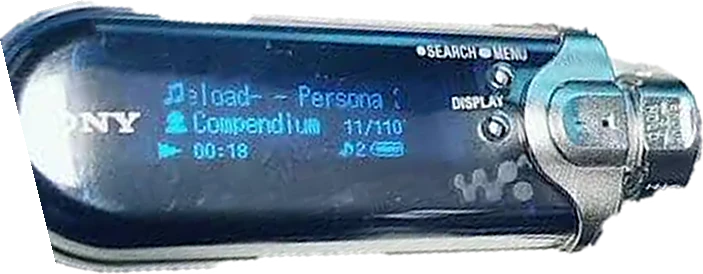
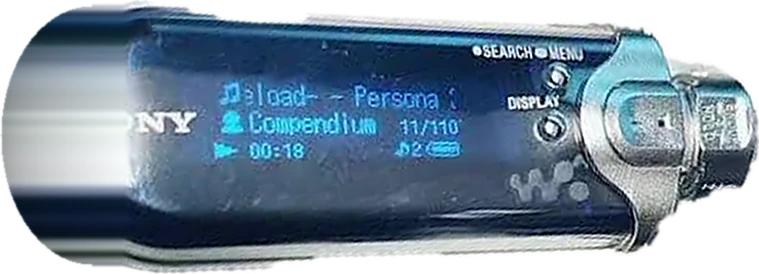
Use the illustrated model with underwater motion; fix the Walkman
Replace the photo-based figure with Noureldin's illustrated model, cut out
from its background. A WebGL shader drifts the hair and shirt as if
underwater (driven by a motion map) while the face stays still, on top of a
slow floating bob. Poses are retuned for the bust framing.

Rebuild the Walkman's cropped left end into a rounded cap, and add a short
silence between tracks when switching.

Claude-Session: https://claude.ai/code/session_01PdweqsM6ZcjuFd6RmoyZBu

diff --git a/src/app/HeroModel.tsx b/src/app/HeroModel.tsx
@@ -1,0 +1,171 @@
+"use client";
+
+import { useEffect, useRef, useState } from "react";
+
+// Draws the illustrated model with a small WebGL shader so the hair and shirt drift
+// as if underwater while the face stays still. A motion map tells the shader how much
+// each pixel moves: red = hair (strong, buoyant), green = shirt (gentle ripple).
+// Falls back to a plain image without WebGL or with reduced motion.
+
+const VERT = `
+attribute vec2 a;
+varying vec2 vUv;
+void main() {
+  vUv = vec2(a.x * 0.5 + 0.5, 0.5 - a.y * 0.5);
+  gl_Position = vec4(a, 0.0, 1.0);
+}
+`;
+
+const FRAG = `
+precision mediump float;
+uniform sampler2D uImg;
+uniform sampler2D uMotion;
+uniform float uTime;
+varying vec2 vUv;
+
+void main() {
+  vec2 uv = vUv;
+  vec4 m = texture2D(uMotion, uv);
+  float t = uTime;
+
+  // Two slow layered waves travelling through the image; smooth and cheap.
+  vec2 wave = vec2(
+    sin(uv.y * 17.0 + t * 1.25) * 0.6 + sin(uv.y * 6.5 + uv.x * 4.0 - t * 0.8) * 0.4,
+    cos(uv.x * 15.0 + t * 1.05) * 0.6 + sin(uv.x * 5.5 - uv.y * 3.0 + t * 0.7) * 0.4
+  );
+
+  vec2 off = wave * (m.r * 0.0075 + m.g * 0.0032);
+  // Hair lifts a little, as if buoyant, and settles back.
+  off.y -= m.r * 0.006 * (0.55 + 0.45 * sin(t * 0.85));
+  // The shirt hem sways sideways.
+  off.x += m.g * 0.004 * sin(t * 0.6 + uv.y * 3.0);
+
+  gl_FragColor = texture2D(uImg, uv + off);
+}
+`;
+
+export default function HeroModel() {
+  const canvasRef = useRef<HTMLCanvasElement | null>(null);
+  const [fallback, setFallback] = useState(false);
+
+  useEffect(() => {
+    const canvas = canvasRef.current;
+    if (!canvas) return;
+    if (window.matchMedia("(prefers-reduced-motion: reduce)").matches) {
+      setFallback(true);
+      return;
+    }
+    const gl = canvas.getContext("webgl", { premultipliedAlpha: true, alpha: true, antialias: false });
+    if (!gl) {
+      setFallback(true);
+      return;
+    }
+
+    const compile = (type: number, src: string) => {
+      const s = gl.createShader(type)!;
+      gl.shaderSource(s, src);
+      gl.compileShader(s);
+      return gl.getShaderParameter(s, gl.COMPILE_STATUS) ? s : null;
+    };
+    const vs = compile(gl.VERTEX_SHADER, VERT);
+    const fs = compile(gl.FRAGMENT_SHADER, FRAG);
+    if (!vs || !fs) {
+      setFallback(true);
+      return;
+    }
+    const prog = gl.createProgram()!;
+    gl.attachShader(prog, vs);
+    gl.attachShader(prog, fs);
+    gl.linkProgram(prog);
+    if (!gl.getProgramParameter(prog, gl.LINK_STATUS)) {
+      setFallback(true);
+      return;
+    }
+    gl.useProgram(prog);
+
+    const buf = gl.createBuffer();
+    gl.bindBuffer(gl.ARRAY_BUFFER, buf);
+    gl.bufferData(gl.ARRAY_BUFFER, new Float32Array([-1, -1, 3, -1, -1, 3]), gl.STATIC_DRAW);
+    const loc = gl.getAttribLocation(prog, "a");
+    gl.enableVertexAttribArray(loc);
+    gl.vertexAttribPointer(loc, 2, gl.FLOAT, false, 0, 0);
+
+    const uTime = gl.getUniformLocation(prog, "uTime");
+    gl.uniform1i(gl.getUniformLocation(prog, "uImg"), 0);
+    gl.uniform1i(gl.getUniformLocation(prog, "uMotion"), 1);
+
+    const texture = (unit: number, img: HTMLImageElement, premultiply: boolean) => {
+      const tex = gl.createTexture();
+      gl.activeTexture(gl.TEXTURE0 + unit);
+      gl.bindTexture(gl.TEXTURE_2D, tex);
+      gl.pixelStorei(gl.UNPACK_PREMULTIPLY_ALPHA_WEBGL, premultiply);
+      gl.texImage2D(gl.TEXTURE_2D, 0, gl.RGBA, gl.RGBA, gl.UNSIGNED_BYTE, img);
+      // Non-power-of-two textures: clamp and no mipmaps.
+      gl.texParameteri(gl.TEXTURE_2D, gl.TEXTURE_WRAP_S, gl.CLAMP_TO_EDGE);
+      gl.texParameteri(gl.TEXTURE_2D, gl.TEXTURE_WRAP_T, gl.CLAMP_TO_EDGE);
+      gl.texParameteri(gl.TEXTURE_2D, gl.TEXTURE_MIN_FILTER, gl.LINEAR);
+      gl.texParameteri(gl.TEXTURE_2D, gl.TEXTURE_MAG_FILTER, gl.LINEAR);
+    };
+
+    const load = (src: string) =>
+      new Promise<HTMLImageElement>((resolve, reject) => {
+        const img = new Image();
+        img.decoding = "async";
+        img.onload = () => resolve(img);
+        img.onerror = () => reject(new Error(`Could not load ${src}`));
+        img.src = src;
+      });
+
+    // Phones get the lighter texture; larger screens get the sharper one for close-ups.
+    const small = window.innerWidth < 900;
+    let raf = 0;
+    let cancelled = false;
+    const start = performance.now();
+
+    Promise.all([load(small ? "/images/nour-model-sm.webp" : "/images/nour-model.webp"), load("/images/nour-motion.png")])
+      .then(([img, motion]) => {
+        if (cancelled) return;
+        canvas.width = img.naturalWidth;
+        canvas.height = img.naturalHeight;
+        gl.viewport(0, 0, canvas.width, canvas.height);
+        texture(0, img, true);
+        texture(1, motion, false);
+        gl.clearColor(0, 0, 0, 0);
+        canvas.dataset.ready = "true";
+        const frame = (now: number) => {
+          gl.clear(gl.COLOR_BUFFER_BIT);
+          gl.uniform1f(uTime, (now - start) / 1000);
+          gl.drawArrays(gl.TRIANGLES, 0, 3);
+          raf = requestAnimationFrame(frame);
+        };
+        raf = requestAnimationFrame(frame);
+      })
+      .catch(() => setFallback(true));
+
+    const onVis = () => {
+      cancelAnimationFrame(raf);
+      if (!document.hidden && canvas.dataset.ready) {
+        const frame = (now: number) => {
+          gl.clear(gl.COLOR_BUFFER_BIT);
+          gl.uniform1f(uTime, (now - start) / 1000);
+          gl.drawArrays(gl.TRIANGLES, 0, 3);
+          raf = requestAnimationFrame(frame);
+        };
+        raf = requestAnimationFrame(frame);
+      }
+    };
+    document.addEventListener("visibilitychange", onVis);
+
+    return () => {
+      cancelled = true;
+      cancelAnimationFrame(raf);
+      document.removeEventListener("visibilitychange", onVis);
+    };
+  }, []);
+
+  if (fallback) {
+    // eslint-disable-next-line @next/next/no-img-element
+    return <img className="hero-art" src="/images/nour-model.webp" alt="" width={1490} height={1404} />;
+  }
+  return <canvas ref={canvasRef} className="hero-art" width={1490} height={1404} />;
+}

diff --git a/src/app/globals.css b/src/app/globals.css
@@ -582,9 +582,9 @@ body {
 /* Live display laid over the photo's screen */
 .wm-screen {
   position: absolute;
-  left: 21.2%;
+  left: 27%;
   top: 25%;
-  width: 36.6%;
+  width: 33.9%;
   height: 40.5%;
   display: flex;
   flex-direction: column;
@@ -685,7 +685,7 @@ body {
 /* Controls under the player */
 .wm-controls {
   position: absolute;
-  left: 24%;
+  left: 29%;
   top: 100%;
   margin-top: 0.4rem;
   display: flex;
@@ -801,20 +801,20 @@ body {
   88% { transform: skewX(-12deg) scale(1.14); }
 }
 
-/* ---------- Hero: the illustrated character, posed per view ---------- */
+/* ---------- Hero: the illustrated model, posed per view ---------- */
 
 .hero {
-  --hh: 120vh;
+  --hh: 92vh;
   position: absolute;
   left: 0;
   top: 0;
   z-index: 3;
-  width: calc(var(--hh) * 0.5357);
+  width: calc(var(--hh) * 1.0613);
   height: var(--hh);
   /* The box is centred on the screen origin, so each pose's translate is where its centre lands */
-  margin: calc(var(--hh) * -0.5) 0 0 calc(var(--hh) * -0.2679);
+  margin: calc(var(--hh) * -0.5) 0 0 calc(var(--hh) * -0.5306);
   pointer-events: none;
-  transform: translate(15vw, 20vh) rotate(178deg);
+  transform: translate(calc(16vw - 18vh), 48vh) rotate(172deg);
   transition: transform 820ms var(--ease-out), opacity 400ms linear;
   animation: heroIn 1100ms var(--ease-out) 150ms backwards;
 }
@@ -823,10 +823,10 @@ body {
   width: 100%;
   height: 100%;
   translate: calc(var(--px) * -18px) calc(var(--py) * -12px);
-  animation: drift 8s ease-in-out infinite;
+  animation: drift 7s ease-in-out infinite;
 }
 
-.hero img {
+.hero-art {
   display: block;
   width: 100%;
   height: 100%;
@@ -834,21 +834,28 @@ body {
   object-fit: contain;
   filter: drop-shadow(0 30px 40px rgb(2 6 50 / 0.45));
 }
+.hero canvas.hero-art:not([data-ready]) {
+  opacity: 0;
+}
+.hero canvas.hero-art {
+  transition: opacity 500ms linear;
+}
 
-/* One pose per screen, echoing the game's submenu cut-ins */
-.hero[data-pose="profile"] { transform: translate(calc(27vw + 17vh), 128vh) rotate(-11deg) scale(2.05); }
-.hero[data-pose="projects"] { transform: translate(17vw, 58vh) rotate(-118deg) scale(1.02); }
-.hero[data-pose="experience"] { transform: translate(23vw, 68vh) rotate(-5deg) scale(-1.12, 1.12); }
-.hero[data-pose="skills"] { transform: translate(33vw, 34vh) rotate(184deg) scale(1.16); }
-.hero[data-pose="activities"] { transform: translate(19vw, 74vh) rotate(16deg) scale(1.3); }
-.hero[data-pose="contact"] { transform: translate(calc(29vw - 17vh), 128vh) rotate(11deg) scale(-2.05, 2.05); }
+/* One pose per screen. Each translate puts the face where it reads best beside the content. */
+.hero[data-pose="profile"] { transform: translate(calc(26vw + 33vh), 73vh) rotate(-8deg) scale(1.9); }
+.hero[data-pose="projects"] { transform: translate(calc(24vw + 25vh), 49vh) rotate(-22deg) scale(1.2); }
+.hero[data-pose="experience"] { transform: translate(calc(26vw - 20vh), 51vh) rotate(6deg) scale(-1.15, 1.15); }
+.hero[data-pose="skills"] { transform: translate(calc(30vw - 15vh), 50vh) rotate(186deg) scale(1.1); }
+.hero[data-pose="activities"] { transform: translate(calc(22vw + 14vh), 62vh) rotate(14deg) scale(1.3); }
+.hero[data-pose="contact"] { transform: translate(calc(26vw - 34vh), 72vh) rotate(9deg) scale(-1.9, 1.9); }
 
 @keyframes heroIn {
   from { opacity: 0; translate: -80px -120px; }
 }
 @keyframes drift {
-  0%, 100% { transform: translate(0, 0) rotate(0deg); }
-  50% { transform: translate(10px, 14px) rotate(1.4deg); }
+  0%, 100% { transform: translate(0, 0) rotate(0deg) scale(1); }
+  30% { transform: translate(8px, 12px) rotate(1deg) scale(1.006); }
+  65% { transform: translate(-4px, 18px) rotate(-0.6deg) scale(1.01); }
 }
 
 /* ---------- Ghost title behind the character in submenus ---------- */
@@ -1624,12 +1631,12 @@ body {
   }
 
   .hero {
-    --hh: 78vh;
-    transform: translate(16vw, 34vh) rotate(178deg);
+    --hh: 66vh;
+    transform: translate(calc(24vw - 15vh), 62vh) rotate(172deg);
   }
   .screen[data-view="sub"] .hero {
-    opacity: 0.32;
-    transform: translate(70vw, 66vh) rotate(-8deg) scale(1.1);
+    opacity: 0.3;
+    transform: translate(58vw, 74vh) rotate(-8deg) scale(1.05);
   }
 
   .ghost {

diff --git a/src/app/audio.ts b/src/app/audio.ts
@@ -96,7 +96,8 @@ class AudioEngine {
   /** Elapsed seconds in the current loop, for the Walkman's clock. */
   get elapsed() {
     if (!this.ctx || !this.current) return 0;
-    return (this.ctx.currentTime - this.current.startedAt) % this.current.duration;
+    // Before the new track starts (during the gap) the clock stays at 0.
+    return Math.max(0, this.ctx.currentTime - this.current.startedAt) % this.current.duration;
   }
 
   get track() {
@@ -125,26 +126,31 @@ class AudioEngine {
     // The listener may have skipped ahead or paused while this was loading.
     if (wanted !== this.trackIndex || !this.playing) return;
 
-    // Crossfade: fade the old loop out while the new one fades in.
+    // Switching tracks: fade the old loop out quickly, hold a short beat of silence,
+    // then fade the new one in, like the gap between songs on a real player.
     const now = ctx.currentTime;
-    const fade = 1.4;
+    const fadeOut = 0.3;
+    const gap = 0.35;
+    let startAt = now;
     if (this.current) {
       const old = this.current;
       old.gain.gain.cancelScheduledValues(now);
       old.gain.gain.setValueAtTime(old.gain.gain.value, now);
-      old.gain.gain.linearRampToValueAtTime(0, now + fade);
-      old.src.stop(now + fade + 0.05);
+      old.gain.gain.linearRampToValueAtTime(0, now + fadeOut);
+      old.src.stop(now + fadeOut + 0.02);
+      startAt = now + fadeOut + gap;
     }
+    const fadeIn = this.current ? 0.7 : 1.2;
     const gain = ctx.createGain();
-    gain.gain.setValueAtTime(0, now);
-    gain.gain.linearRampToValueAtTime(1, now + fade);
+    gain.gain.setValueAtTime(0, startAt);
+    gain.gain.linearRampToValueAtTime(1, startAt + fadeIn);
     gain.connect(this.master);
     const src = ctx.createBufferSource();
     src.buffer = buffer;
     src.loop = true; // gapless, unlike <audio loop>
     src.connect(gain);
-    src.start(now);
-    this.current = { src, gain, startedAt: now, duration: buffer.duration };
+    src.start(startAt);
+    this.current = { src, gain, startedAt: startAt, duration: buffer.duration };
     this.loading = false;
     this.emit();
 

diff --git a/src/app/Walkman.tsx b/src/app/Walkman.tsx
@@ -48,14 +48,14 @@ export default function Walkman() {
   return (
     <div className="walkman" data-playing={playing}>
       <div className="wm-float">
-        <svg className="wm-wire" viewBox="0 0 703 274" aria-hidden="true">
-          <path d="M690 150 C 770 140, 820 -40, 760 -220 S 620 -560, 720 -820 S 960 -1080, 1020 -1300" />
+        <svg className="wm-wire" viewBox="0 0 759 274" aria-hidden="true">
+          <path d="M746 150 C 826 140, 876 -40, 816 -220 S 676 -560, 776 -820 S 1016 -1080, 1076 -1300" />
         </svg>
 
         <div className="wm-body">
           {/* Photo of the player; the live display sits over its screen */}
           {/* eslint-disable-next-line @next/next/no-img-element */}
-          <img className="wm-photo" src="/images/walkman.webp" alt="" width={703} height={274} />
+          <img className="wm-photo" src="/images/walkman.webp" alt="" width={759} height={274} />
 
           <button
             className="wm-screen"

diff --git a/src/app/PauseMenu.tsx b/src/app/PauseMenu.tsx
@@ -3,6 +3,7 @@
 import { useCallback, useEffect, useRef, useState } from "react";
 import { audio } from "./audio";
 import Bubbles, { burst } from "./Bubbles";
+import HeroModel from "./HeroModel";
 import OceanCanvas from "./OceanCanvas";
 import Walkman from "./Walkman";
 import {
@@ -271,8 +272,7 @@ export default function PauseMenu() {
       {/* The illustrated character; each view moves it into a different pose */}
       <div className="hero" data-pose={view} aria-hidden="true">
         <div className="hero-float">
-          {/* eslint-disable-next-line @next/next/no-img-element */}
-          <img src="/images/nour.webp" alt="" width={1020} height={1904} />
+          <HeroModel />
         </div>
       </div>
 
